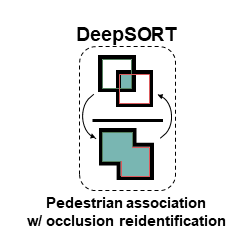
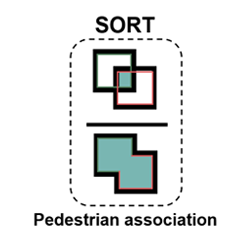
Add model C and D results

Changed region(s): [[0.1111, 0.0556, 0.9167, 0.9167]]

diff --git a/src/pages/Integrated.js b/src/pages/Integrated.js
@@ -26,6 +26,7 @@ class Integrated extends React.Component {
       require('./images/modelA.png'),
       require('./images/modelB.png'),
       require('./images/modelC.png'),
+      require('./images/modelD.png'),
     ];
     this.gifs = [[
       require('./gifs/modelA1.gif'),
@@ -37,11 +38,28 @@ class Integrated extends React.Component {
       require('./gifs/modelB2.gif'),
       require('./gifs/modelB3.gif'),
       require('./gifs/modelB4.gif'),
-    ]
-    ];
-    this.resultGifs = [
-      require('./gifs/modelADetect.gif'),
-      require('./gifs/modelBDetect.gif')
+    ], [
+      require('./gifs/modelC1.gif'),
+      require('./gifs/modelC2.gif'),
+      require('./gifs/modelC3.gif'),
+      require('./gifs/modelC4.gif'),
+    ], [
+      require('./gifs/modelD1.gif'),
+      require('./gifs/modelD2.gif'),
+      require('./gifs/modelD3.gif'),
+      require('./gifs/modelD4.gif'),
+    ]];
+    this.acComparison = [[
+      require('./gifs/modelA_cmp1.gif'),
+      require('./gifs/modelA_cmp2.gif'),
+      require('./gifs/modelA_cmp3.gif')
+    ], [
+      require('./gifs/modelC_cmp1.gif'),
+      require('./gifs/modelC_cmp2.gif'),
+      require('./gifs/modelC_cmp3.gif')
+    ]];
+    this.resultImages = [
+      require('./images/metrics.png')
     ]
     this.state = {
       tab: 0,
@@ -85,6 +103,7 @@ class Integrated extends React.Component {
               <Tab label="Model A" />
               <Tab label="Model B" />
               <Tab label="Model C" />
+              <Tab label="Model D" />
               <Tab label="Results" />
 
             </Tabs>
@@ -138,7 +157,7 @@ class Integrated extends React.Component {
                   </Grid>
 
                   <br />
-                  <Colab desc="Model A" link="https://colab.research.google.com/drive/1qztt4iC0kNcJKVF5o1pbefdEWnP9VwcL?usp=sharing" />
+                  <Colab desc="Model A" link="https://colab.research.google.com/drive/1InGYCg_SEosqumijaGyWzC9VoLPm5ZEx#scrollTo=DGgcEDqHNyUl&forceEdit=true&sandboxMode=true" />
                 </div> : ''}
             </TabContainer>
 
@@ -178,7 +197,7 @@ class Integrated extends React.Component {
                     </Grid>
                   </Grid>
                   <br />
-                  <Colab desc="Model B" link="https://colab.research.google.com/drive/1AOx2hzWeQceorhu75Zvc0esZLw0SzlRH?usp=sharing" />
+                  <Colab desc="Model B" link="https://colab.research.google.com/drive/19YmKS3KZvl86tDN4CWDEZ7lPWjFWWrQQ#scrollTo=SU6qWoWr1QpP&forceEdit=true&sandboxMode=true" />
                   <br /><br />
                 </div> : ''}
             </TabContainer>
@@ -191,8 +210,33 @@ class Integrated extends React.Component {
                   </Paper>
                   <br />
                   <div className={classes.body}>
-                    Model C consists of 4 components: YOLO, DeepSORT, Skeleton Tracking, and Densenet. This integrated framework combined the work from students at Chalmers University on using pose estimation for pedestrian intent detection with our (UC Berkeley) framework to achieve higher accuracies.
+                    Model C consists of 4 components: YOLO, SORT, Skeleton Tracking, and Densenet. This integrated framework combined the work from students at Chalmers University on using pose estimation for pedestrian intent detection with our (UC Berkeley) framework to achieve higher accuracies.
                   </div>
+                  <br />
+                  <Grid container spacing={3}>
+                    <Grid item xs={6}>
+                      <Paper className={classes.paper}>
+                        <img src={this.gifs[2][0]} alt="modelC1" width="90%" />
+                      </Paper>
+                    </Grid>
+                    <Grid item xs={6}>
+                      <Paper className={classes.paper}>
+                        <img src={this.gifs[2][1]} alt="modelC2" width="90%" />
+                      </Paper>
+                    </Grid>
+                  </Grid>
+                  <Grid container spacing={3}>
+                    <Grid item xs={6}>
+                      <Paper className={classes.paper}>
+                        <img src={this.gifs[2][2]} alt="modelC3" width="90%" />
+                      </Paper>
+                    </Grid>
+                    <Grid item xs={6}>
+                      <Paper className={classes.paper}>
+                        <img src={this.gifs[2][3]} alt="modelC4" width="90%" />
+                      </Paper>
+                    </Grid>
+                  </Grid>
                   <br />
                   <Colab desc="Model C" link="https://colab.research.google.com/drive/1qztt4iC0kNcJKVF5o1pbefdEWnP9VwcL?usp=sharing" />
                   <br /><br />
@@ -201,6 +245,47 @@ class Integrated extends React.Component {
 
             <TabContainer >
               {this.state.tab === 3 ?
+                <div>
+                  <Paper className={classes.paper}>
+                    <img src={this.images[3]} alt="modelD" width="100%" />
+                  </Paper>
+                  <br />
+                  <div className={classes.body}>
+                    Model D consists of 4 components: YOLO, DeepSORT, Skeleton Tracking, and Densenet. This integrated framework combined the work from students at Chalmers University on using pose estimation for pedestrian intent detection with our (UC Berkeley) framework to achieve higher accuracies.
+                  </div>
+                  <br />
+                  <Grid container spacing={3}>
+                    <Grid item xs={6}>
+                      <Paper className={classes.paper}>
+                        <img src={this.gifs[3][0]} alt="modelD1" width="90%" />
+                      </Paper>
+                    </Grid>
+                    <Grid item xs={6}>
+                      <Paper className={classes.paper}>
+                        <img src={this.gifs[3][1]} alt="modelD2" width="90%" />
+                      </Paper>
+                    </Grid>
+                  </Grid>
+                  <Grid container spacing={3}>
+                    <Grid item xs={6}>
+                      <Paper className={classes.paper}>
+                        <img src={this.gifs[3][2]} alt="modelD3" width="90%" />
+                      </Paper>
+                    </Grid>
+                    <Grid item xs={6}>
+                      <Paper className={classes.paper}>
+                        <img src={this.gifs[3][3]} alt="modelD4" width="90%" />
+                      </Paper>
+                    </Grid>
+                  </Grid>
+                  <br />
+                  <Colab desc="Model D" link="https://colab.research.google.com/drive/1qztt4iC0kNcJKVF5o1pbefdEWnP9VwcL?usp=sharing" />
+                  <br /><br />
+                </div> : ''}
+            </TabContainer>
+
+            <TabContainer >
+              {this.state.tab === 4 ?
                 <div>
                   <h2 style={{ marginBottom: "0px", marginTop: "0px" }}>Side by Side Comparison</h2>
                   <h5 style={{ marginTop: "5px", marginBottom: "10px" }}>Note: Click the Video tabs to resync the GIFs if they fall out of sync.</h5>
@@ -215,54 +300,40 @@ class Integrated extends React.Component {
                       <Tab label="Video 1" />
                       <Tab label="Video 2" />
                       <Tab label="Video 3" />
-                      <Tab label="Video 4" />
 
                     </Tabs>
                   </AppBar>
                   <br />
                   <Grid container spacing={3}>
-                    <Grid item xs={4}>
+                    <Grid item xs={6}>
                       <Paper className={classes.paper}>
-                        <img src={this.gifs[0][this.state.innerTab]} alt="modelA2" width="100%" />
+                        <img src={this.acComparison[0][this.state.innerTab]} alt="modelA" width="90%" /> <br />
+                        Model A
                       </Paper>
                     </Grid>
-                    <Grid item xs={4}>
+                    <Grid item xs={6}>
                       <Paper className={classes.paper}>
-                        <img src={this.gifs[1][this.state.innerTab]} alt="modelB2" width="100%" />
-                      </Paper>
-                    </Grid>
-                    <Grid item xs={4}>
-                      <Paper className={classes.paper}>
-                        <img src={this.gifs[1][this.state.innerTab]} alt="modelB2" width="100%" />
+                        <img src={this.acComparison[1][this.state.innerTab]} alt="modelC" width="90%" /> <br />
+                        Model C
                       </Paper>
                     </Grid>
                   </Grid>
                   <br />
                   <h2>Results</h2>
                   <div className={classes.body}>
-                    We used three different metrics to anaylze Model A's performance. The first involved using the accuracy of the model's prediction of a pedestrian's intent 16 frames (with videos running at 30fps, around half a second) before they cross which was 0.345. The second involved using the accuracy of the model's prediction of a pedestrian's intent at the frame at which they actually begin crossing, which was 0.479. The third involved using the percentage accuracy of the model's prediction of a pedestrian's intent 16 frames before, which was 0.468.
+                    <ol>
+                      <li>M1: The accuracy in predicting the crossing action exactly 16 frames (same as the sliding window used for densenet) before it takes place (around 0.5 seconds). </li>
+                      <li>M2: The percentage of "crossing" prediction in the 16 frames proceeding the action </li>
+                      <li>M3: The accuracy in predicting the crossing action in the frame where the action actually takes place. </li>
+                    </ol>
+                    For example, if the GT tells us that the pedestrian is crossing at frame 17, we will check whether our models predict "crossing" at frame 1, at frame 17, and the percentage of "crossing" predictions between frames 1 and 16. We went through the same procedure for each pedestrian in all the videos to calculate the accuracy and the average percentage. We excluded the pedestrians whose crossing action was happening before the 16th frame, as it wouldn’t have been possible to calculate M2 and M3.
+
                   </div>
                   <br />
+                  <img src={this.resultImages[0]} width="45%" alt="metrics" />
                   <div className={classes.body}>
-                    For Model B, DeepSORT was able to detect pedestrians crossing several frames before Model A was able to. The below GIFs show that Model B was able to detect a pedestrian crossing 4 frames before Model A.
+                    From the metrics we conclude that Model C gives the highest performance.
                   </div>
-                  < br />
-                  <Grid container spacing={3}>
-                    <Grid item xs={6}>
-                      <Paper className={classes.paper}>
-                        <img src={this.resultGifs[0]} alt="modelB1" width="90%" /><br />
-                        SORT detects pedestrian at Frame 83
-                      </Paper>
-
-                    </Grid>
-                    <Grid item xs={6}>
-                      <Paper className={classes.paper}>
-                        <img src={this.resultGifs[1]} alt="modelB2" width="90%" /><br />
-                        DeepSORT detects pedestrian at Frame 79
-                      </Paper>
-
-                    </Grid>
-                  </Grid>
                   <br />
 
                 </div> : ''}
